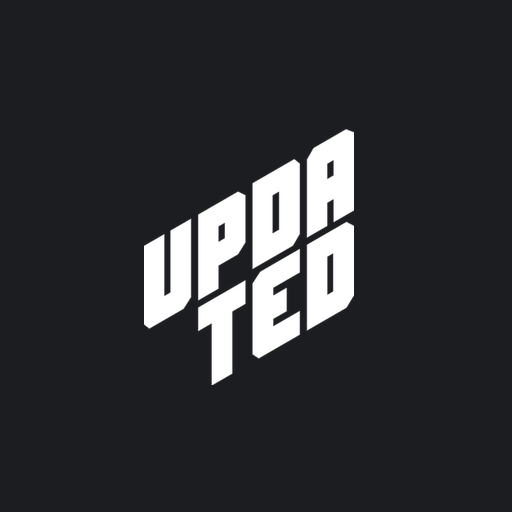
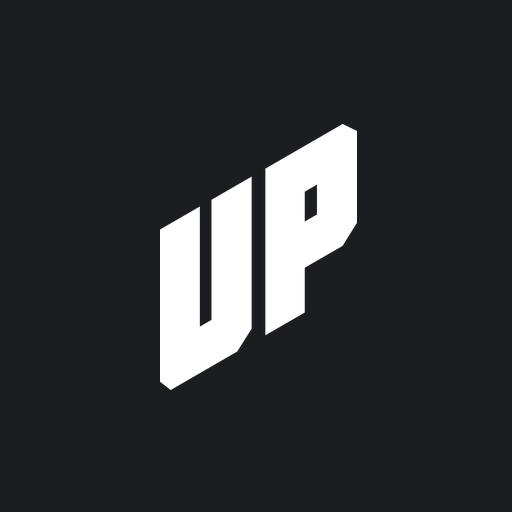
İkonlar UP işaretinden (sekme ikonu yuvarlak köşeli mavi); ARCHITECTURE: işletme el kitabı
Claude-Session: https://claude.ai/code/session_01EUmMU52Y83xdSHPfB17i62

Changed region(s): [[0.2812, 0.2188, 0.7188, 0.7812]]

diff --git a/index.html b/index.html
@@ -6,7 +6,7 @@
     <meta name="theme-color" content="#1B1D21" />
     <meta name="apple-mobile-web-app-capable" content="yes" />
     <meta name="apple-mobile-web-app-title" content="Updated Stüdyo" />
-    <link rel="icon" type="image/png" sizes="32x32" href="./favicon-32.png" />
+    <link rel="icon" type="image/png" sizes="64x64" href="./favicon.png" />
     <link rel="apple-touch-icon" href="./icon-180.png" />
     <link rel="manifest" href="./manifest.json" />
     <link rel="stylesheet" href="https://fonts.googleapis.com/css2?family=Bricolage+Grotesque:opsz,wght@12..96,600;12..96,800&family=Instrument+Sans:wght@400;500;600&family=JetBrains+Mono:wght@500&display=swap" />
@@ -14,7 +14,7 @@
     <style>
       /* Açılış ekranı: telefonun kendi açılış ekranıyla aynı renk ve boyut (#1B1D21, ikon zemini de bu renk), dikiş görünmesin; uygulama yüklenince kaybolur (main.tsx) */
       #acilis { position: fixed; inset: 0; z-index: 100; display: grid; place-items: center; background: #1B1D21; transition: opacity .35s ease; }
-      #acilis i { width: 98px; height: 120px; background: #F1F3F6; -webkit-mask: url("./logo.png") center / contain no-repeat; mask: url("./logo.png") center / contain no-repeat; animation: acilis-gel .6s cubic-bezier(.2,.8,.2,1) both; }
+      #acilis i { width: 89px; height: 120px; background: #F1F3F6; -webkit-mask: url("./isaret.png") center / contain no-repeat; mask: url("./isaret.png") center / contain no-repeat; animation: acilis-gel .6s cubic-bezier(.2,.8,.2,1) both; }
       #acilis.git { opacity: 0; pointer-events: none; }
       @keyframes acilis-gel { from { opacity: 0; transform: scale(.86); } to { opacity: 1; transform: none; } }
       @media (prefers-reduced-motion: reduce) { #acilis i { animation: none; } }

diff --git a/scripts/ikonlar.py b/scripts/ikonlar.py
@@ -1,15 +1,18 @@
 """Uygulama ikonlarını tek kaynak logodan üretir.
 
-Kullanım:  python3 scripts/ikonlar.py [kaynak.png] [zemin_rengi]
-  kaynak: şeffaf zeminli logo ya da siyah zemin üstüne beyaz logo (varsayılan: src/assets/logo.png)
-  zemin:  ana ekran ikonunun zemin rengi (varsayılan: #000000)
+Kullanım:  python3 scripts/ikonlar.py [kaynak.png] [zemin_rengi] [favicon_rengi]
+  kaynak: şeffaf zeminli işaret ya da siyah zemin üstüne beyaz işaret (varsayılan: assets/marka/up-isaret.png)
+  zemin:  ana ekran ikonunun zemini (varsayılan: #1B1D21, açılış ekranıyla aynı; dikiş görünmesin)
+  favicon_rengi: sekme ikonunun zemini, köşeleri yuvarlatılmış kare (varsayılan: marka mavisi #2563FF)
+Üst bölümdeki "UPDATED" yazısı ayrı dosyadır (src/assets/logo.png, kaynağı assets/marka/updated-yazi.png); bu betik ona dokunmaz.
 
 Üretilenler (public/):
   icon-180.png        iPhone ana ekran (apple-touch-icon)
   icon-192.png, icon-512.png   Android ana ekran (maskable: logo güvenli alanda, daire kesimde kırpılmaz)
   icon-seffaf-512.png Android açılış ekranı (şeffaf zemin)
   favicon-32.png      tarayıcı sekmesi
-  logo.png            açılış ekranı ve üst bölüm maskesi
+  favicon.png         tarayıcı sekmesi (64 px, yuvarlak köşeli, marka mavisi)
+  isaret.png          açılış ekranı maskesi (beyaz işaret, şeffaf)
 Logo optik merkeze oturtulur (kutu merkezi ile ağırlık merkezinin ortası): eğik logolar kayık görünmez.
 """
 import sys
@@ -17,8 +20,9 @@ from PIL import Image
 import numpy as np
 
 KOK = __file__.rsplit("/scripts/", 1)[0]
-kaynak = sys.argv[1] if len(sys.argv) > 1 else f"{KOK}/src/assets/logo.png"
-zemin = sys.argv[2] if len(sys.argv) > 2 else "#000000"
+kaynak = sys.argv[1] if len(sys.argv) > 1 else f"{KOK}/assets/marka/up-isaret.png"
+zemin = sys.argv[2] if len(sys.argv) > 2 else "#1B1D21"
+fav_zemin = sys.argv[3] if len(sys.argv) > 3 else "#2563FF"
 
 im = Image.open(kaynak).convert("RGBA")
 a = np.array(im)
@@ -50,14 +54,25 @@ def yap(boyut: int, oran: float, zeminli: bool, renk=(255, 255, 255)) -> Image.I
 
 
 P = f"{KOK}/public"
-yap(180, 0.58, True).convert("RGB").save(f"{P}/icon-180.png", optimize=True)
-yap(192, 0.50, True).convert("RGB").save(f"{P}/icon-192.png", optimize=True)   # maskable: güvenli alan %80 daire
-yap(512, 0.50, True).convert("RGB").save(f"{P}/icon-512.png", optimize=True)
-yap(512, 0.58, False).save(f"{P}/icon-seffaf-512.png", optimize=True)
-yap(32, 0.86, True).convert("RGB").save(f"{P}/favicon-32.png", optimize=True)
-# maske (beyaz, şeffaf zemin, kırpılmış): üst bölüm ve açılış ekranı
-buyuk = maske.resize((w * 2, h * 2), Image.LANCZOS) if max(w, h) < 400 else maske
-logo = Image.new("RGBA", buyuk.size, (255, 255, 255, 255)); logo.putalpha(buyuk)
-logo.save(f"{P}/logo.png", optimize=True)
-logo.save(f"{KOK}/src/assets/logo.png", optimize=True)
+yap(180, 0.60, True).convert("RGB").save(f"{P}/icon-180.png", optimize=True)
+yap(192, 0.52, True).convert("RGB").save(f"{P}/icon-192.png", optimize=True)   # maskable: güvenli alan %80 daire
+yap(512, 0.52, True).convert("RGB").save(f"{P}/icon-512.png", optimize=True)
+yap(512, 0.60, False).save(f"{P}/icon-seffaf-512.png", optimize=True)
+
+# Sekme ikonu: yuvarlak köşeli mavi kare (köşeler şeffaf), 4x büyük çizip küçült: kenarlar pürüzsüz
+from PIL import ImageDraw
+B = 256
+fav = Image.new("RGBA", (B, B), (0, 0, 0, 0))
+ImageDraw.Draw(fav).rounded_rectangle([0, 0, B - 1, B - 1], radius=round(B * 0.24), fill=fav_zemin)
+zemin_yedek = zemin
+zemin = (0, 0, 0, 0)
+fav.alpha_composite(yap(B, 0.64, False))
+zemin = zemin_yedek
+fav.resize((64, 64), Image.LANCZOS).save(f"{P}/favicon.png", optimize=True)
+
+# Açılış ekranı maskesi (beyaz işaret, şeffaf, kırpılmış)
+olcek = 600 / max(w, h)
+kucuk = maske.resize((round(w * olcek), round(h * olcek)), Image.LANCZOS)
+isaret = Image.new("RGBA", kucuk.size, (255, 255, 255, 255)); isaret.putalpha(kucuk)
+isaret.save(f"{P}/isaret.png", optimize=True)
 print("tamam:", kutu, "optik merkez kayması", round(ox - w / 2), round(oy - h / 2))
